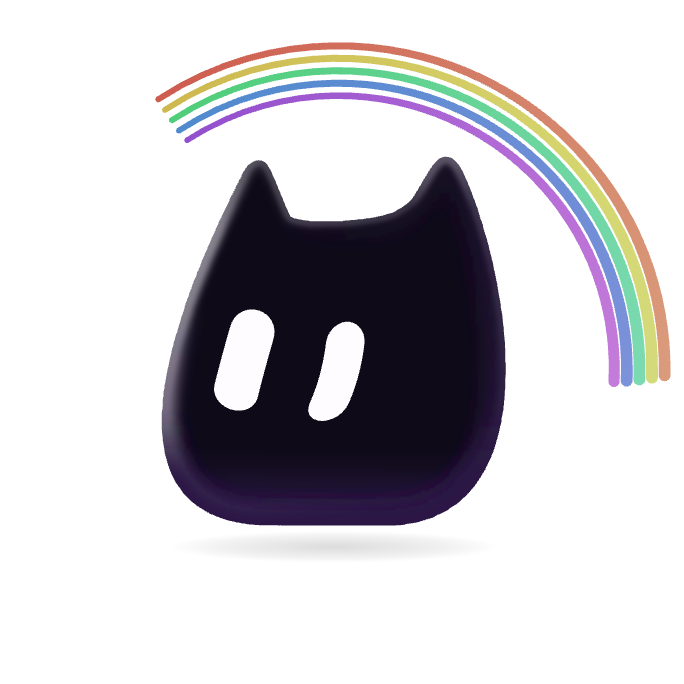
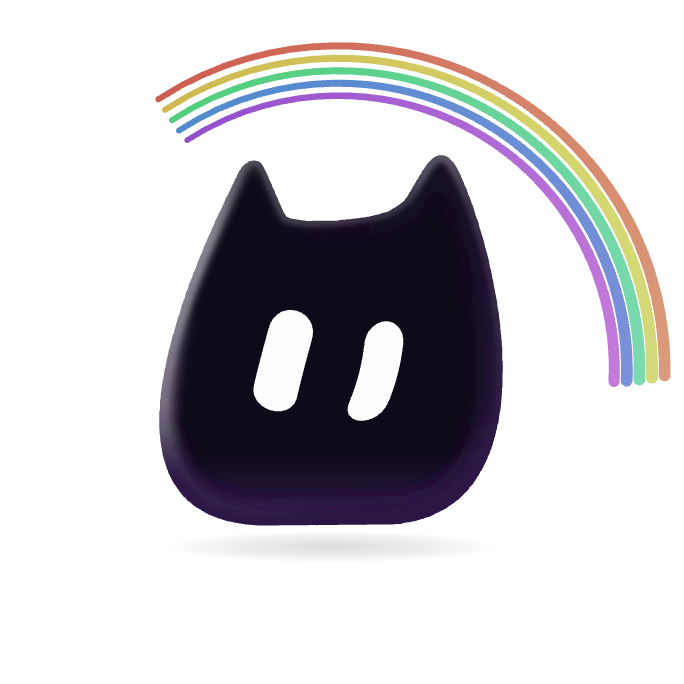
fix(inky): centre the face and make both eyes upright and equal

diff --git a/src/engine/mood-mates/characters/inky/index.ts b/src/engine/mood-mates/characters/inky/index.ts
@@ -13,8 +13,8 @@ const FIT = SCALE / ORIGIN.reach;
 const CROP = 2.5;
 const EYE_POINTS = 96;
 const EYES = [
-  { x: 171.6, y: 285.6, major: 54.5, minor: 26.1, angle: 85 },
-  { x: 280.1, y: 283.5, major: 62.2, minor: 29.8, angle: -80 },
+  { x: 207.9, y: 284.5, major: 58.35, minor: 27.95, angle: 90 },
+  { x: 316.4, y: 284.5, major: 58.35, minor: 27.95, angle: 90 },
 ];
 
 function view(x: number, y: number): Point {
